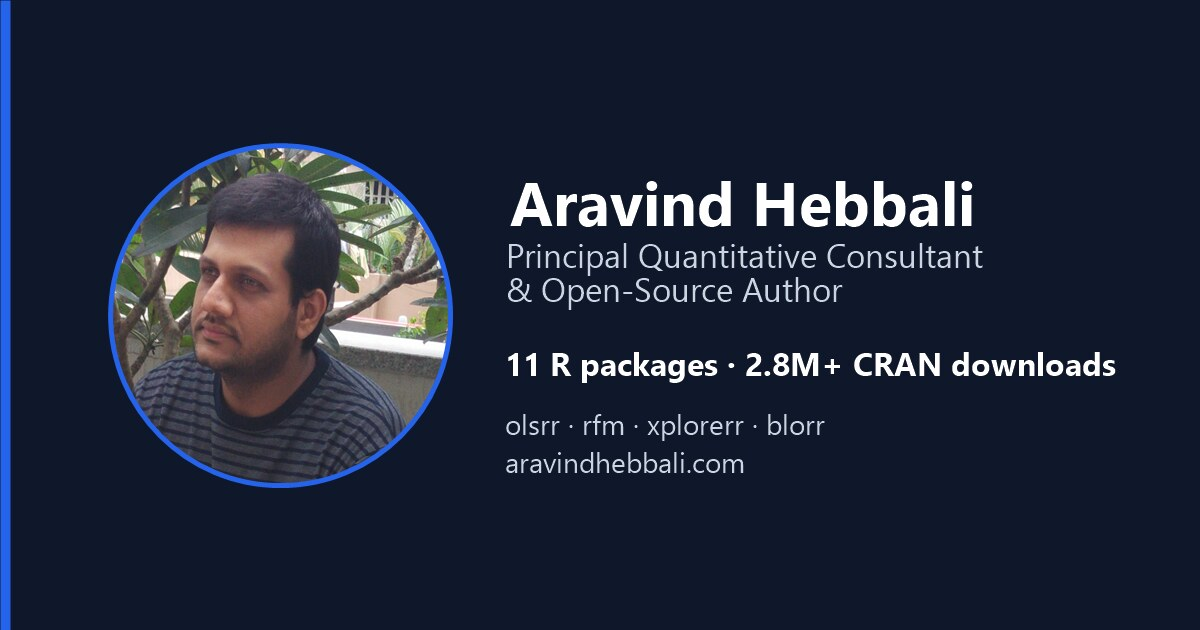
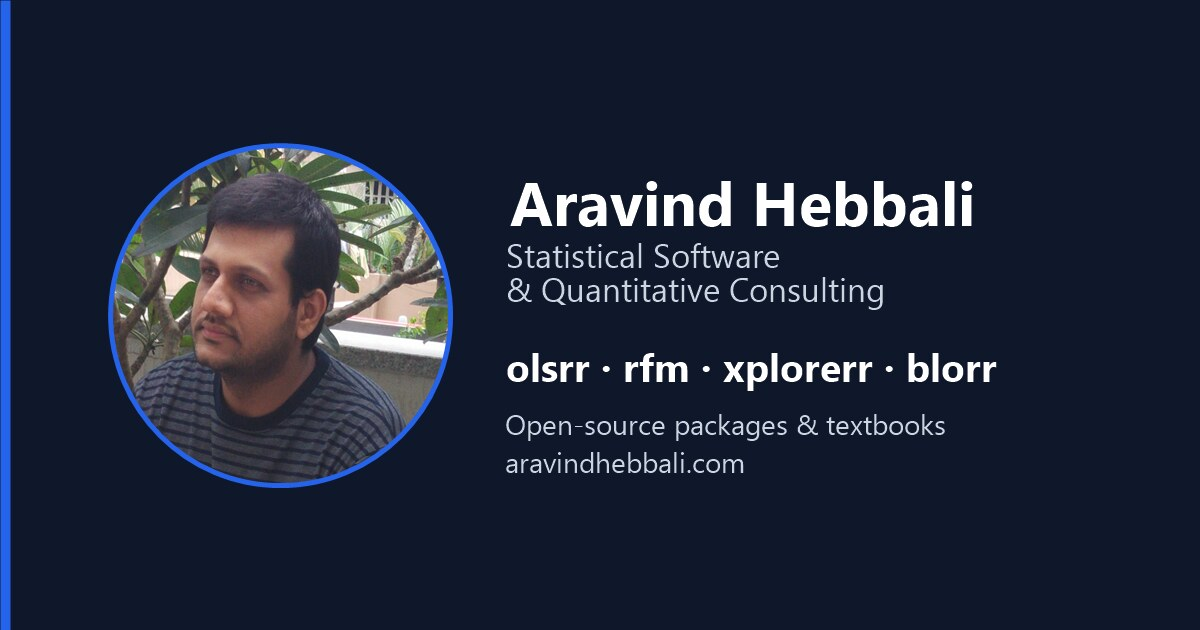
feat: restyle package, app and book pages

Changed region(s): [[0.4008, 0.3619, 0.8325, 0.4825], [0.4008, 0.5429, 0.925, 0.6333], [0.4008, 0.6635, 0.8017, 0.6937]]

diff --git a/_site/packages/index.html b/_site/packages/index.html
@@ -6,7 +6,7 @@
 
 <meta name="viewport" content="width=device-width, initial-scale=1.0, user-scalable=yes">
 
-<meta name="description" content="Documentation and vignettes for 10 actively maintained R packages covering regression diagnostics, customer segmentation, descriptive statistics, inference and data binning.">
+<meta name="description" content="Reference documentation and vignettes for ten actively maintained R packages covering regression diagnostics, customer segmentation, descriptive statistics and inference.">
 
 <title>R Packages – Aravind Hebbali</title>
 <style>
@@ -102,12 +102,12 @@ ul.task-list li input[type="checkbox"] {
 
 <link rel="stylesheet" href="../styles.scss">
 <meta property="og:title" content="R Packages – Aravind Hebbali">
-<meta property="og:description" content="Documentation and vignettes for 10 actively maintained R packages covering regression diagnostics, customer segmentation, descriptive statistics, inference and data binning.">
+<meta property="og:description" content="Reference documentation and vignettes for ten actively maintained R packages covering regression diagnostics, customer segmentation, descriptive statistics and inference.">
 <meta property="og:image" content="https://www.aravindhebbali.com/images/hex-olsrr.webp">
 <meta property="og:site_name" content="Aravind Hebbali">
 <meta property="og:image:alt" content="Hex sticker for the olsrr R package">
 <meta name="twitter:title" content="R Packages – Aravind Hebbali">
-<meta name="twitter:description" content="Documentation and vignettes for 10 actively maintained R packages covering regression diagnostics, customer segmentation, descriptive statistics, inference and data binning.">
+<meta name="twitter:description" content="Reference documentation and vignettes for ten actively maintained R packages covering regression diagnostics, customer segmentation, descriptive statistics and inference.">
 <meta name="twitter:image" content="https://www.aravindhebbali.com/images/hex-olsrr.webp">
 <meta name="twitter:image:alt" content="Hex sticker for the olsrr R package">
 <meta name="twitter:card" content="summary_large_image">
@@ -188,7 +188,7 @@ ul.task-list li input[type="checkbox"] {
 
 <div>
   <div class="description">
-    Documentation and vignettes for 10 actively maintained R packages covering regression diagnostics, customer segmentation, descriptive statistics, inference and data binning.
+    Reference documentation and vignettes for ten actively maintained R packages covering regression diagnostics, customer segmentation, descriptive statistics and inference.
   </div>
 </div>
 
@@ -205,20 +205,16 @@ ul.task-list li input[type="checkbox"] {
 </header>
 
 
-<p>All ten packages below are on CRAN and documented. Each link opens the package’s reference site; every one is maintained and versioned with CRAN.</p>
-<section id="regression-and-modeling" class="level2">
-<h2 class="anchored" data-anchor-id="regression-and-modeling">Regression and modeling</h2>
+<p>Ten packages, all on CRAN, all documented. Each card links to the package’s reference site, its CRAN page and its source.</p>
+<section id="regression-and-modelling" class="level2">
+<h2 class="anchored" data-anchor-id="regression-and-modelling">Regression and modelling</h2>
 <div class="card-deck">
 <div class="card">
 <p><img src="../images/hex-olsrr.webp" class="hex img-fluid" alt="Hex sticker for the olsrr R package"></p>
 <section id="olsrr" class="level3 card-title">
 <h3 class="card-title anchored" data-anchor-id="olsrr">olsrr</h3>
-<p>Tools for building OLS regression models. Coefficient diagnostics, ANOVA tables, influential observation analysis, model comparison and more.</p>
-<ul>
-<li><a href="https://cran.r-project.org/package=olsrr">CRAN</a></li>
-<li><a href="https://github.com/aravindhebbali/olsrr">GitHub</a></li>
-<li><a href="https://olsrr.rsquaredacademy.com">Docs</a></li>
-</ul>
+<p>Tools for building OLS regression models. Coefficient diagnostics, ANOVA tables, influential observation analysis and model comparison.</p>
+<p><a href="https://olsrr.rsquaredacademy.com">Reference</a> · <a href="https://cran.r-project.org/package=olsrr">CRAN</a> · <a href="https://github.com/aravindhebbali/olsrr">GitHub</a></p>
 </section>
 </div>
 </div>
@@ -227,12 +223,8 @@ ul.task-list li input[type="checkbox"] {
 <p><img src="../images/hex-blorr.webp" class="hex img-fluid" alt="Hex sticker for the blorr R package"></p>
 <section id="blorr" class="level3 card-title">
 <h3 class="card-title anchored" data-anchor-id="blorr">blorr</h3>
-<p>Tools for developing binary logistic regression models. Includes comprehensive regression output, model fit statistics and validation measures.</p>
-<ul>
-<li><a href="https://cran.r-project.org/package=blorr">CRAN</a></li>
-<li><a href="https://github.com/aravindhebbali/blorr">GitHub</a></li>
-<li><a href="https://blorr.rsquaredacademy.com">Docs</a></li>
-</ul>
+<p>Tools for developing binary logistic regression models, with comprehensive regression output, model fit statistics and validation measures.</p>
+<p><a href="https://blorr.rsquaredacademy.com">Reference</a> · <a href="https://cran.r-project.org/package=blorr">CRAN</a> · <a href="https://github.com/aravindhebbali/blorr">GitHub</a></p>
 </section>
 </div>
 </div>
@@ -241,12 +233,8 @@ ul.task-list li input[type="checkbox"] {
 <p><img src="../images/hex-xplorerr.webp" class="hex img-fluid" alt="Hex sticker for the xplorerr R package"></p>
 <section id="xplorerr" class="level3 card-title">
 <h3 class="card-title anchored" data-anchor-id="xplorerr">xplorerr</h3>
-<p>Interactive data exploration and visualization. Correlation heatmaps, scatterplots, normality and outlier checks, and regression modeling from a point-and-click interface.</p>
-<ul>
-<li><a href="https://cran.r-project.org/package=xplorerr">CRAN</a></li>
-<li><a href="https://github.com/aravindhebbali/xplorerr">GitHub</a></li>
-<li><a href="https://xplorerr.rsquaredacademy.com">Docs</a></li>
-</ul>
+<p>Interactive data exploration and visualization: correlation heatmaps, scatterplots, distribution checks and regression modelling from a point-and-click interface.</p>
+<p><a href="https://xplorerr.rsquaredacademy.com">Reference</a> · <a href="https://cran.r-project.org/package=xplorerr">CRAN</a> · <a href="https://github.com/aravindhebbali/xplorerr">GitHub</a></p>
 </section>
 </div>
 </div>
@@ -258,12 +246,8 @@ ul.task-list li input[type="checkbox"] {
 <p><img src="../images/hex-descriptr.webp" class="hex img-fluid" alt="Hex sticker for the descriptr R package"></p>
 <section id="descriptr" class="level3 card-title">
 <h3 class="card-title anchored" data-anchor-id="descriptr">descriptr</h3>
-<p>Generate and visualize descriptive statistics for numeric and categorical data. Frequency tables, skewness, kurtosis, key statistics and interactive plots, all at speed.</p>
-<ul>
-<li><a href="https://cran.r-project.org/package=descriptr">CRAN</a></li>
-<li><a href="https://github.com/aravindhebbali/descriptr">GitHub</a></li>
-<li><a href="https://descriptr.rsquaredacademy.com">Docs</a></li>
-</ul>
+<p>Descriptive statistics and frequency tables for numeric and categorical data. Skewness, kurtosis and key statistics, computed fast.</p>
+<p><a href="https://descriptr.rsquaredacademy.com">Reference</a> · <a href="https://cran.r-project.org/package=descriptr">CRAN</a> · <a href="https://github.com/aravindhebbali/descriptr">GitHub</a></p>
 </section>
 </div>
 </div>
@@ -272,12 +256,8 @@ ul.task-list li input[type="checkbox"] {
 <p><img src="../images/hex-inferr.webp" class="hex img-fluid" alt="Hex sticker for the inferr R package"></p>
 <section id="inferr" class="level3 card-title">
 <h3 class="card-title anchored" data-anchor-id="inferr">inferr</h3>
-<p>Hypothesis testing and inference. Parametric and non-parametric tests with structured, readable output — t-test, chi-square, ANOVA, correlation and more.</p>
-<ul>
-<li><a href="https://cran.r-project.org/package=inferr">CRAN</a></li>
-<li><a href="https://github.com/aravindhebbali/inferr">GitHub</a></li>
-<li><a href="https://inferr.rsquaredacademy.com">Docs</a></li>
-</ul>
+<p>Hypothesis testing and inference. Parametric and non-parametric tests with structured, readable output: t-test, chi-square, ANOVA and correlation.</p>
+<p><a href="https://inferr.rsquaredacademy.com">Reference</a> · <a href="https://cran.r-project.org/package=inferr">CRAN</a> · <a href="https://github.com/aravindhebbali/inferr">GitHub</a></p>
 </section>
 </div>
 </div>
@@ -286,12 +266,8 @@ ul.task-list li input[type="checkbox"] {
 <p><img src="../images/hex-vistributions.webp" class="hex img-fluid" alt="Hex sticker for the vistributions R package"></p>
 <section id="vistributions" class="level3 card-title">
 <h3 class="card-title anchored" data-anchor-id="vistributions">vistributions</h3>
-<p>Visualize probability distributions of univariate data across 20+ continuous and discrete distributions, plus statistical quality checks.</p>
-<ul>
-<li><a href="https://cran.r-project.org/package=vistributions">CRAN</a></li>
-<li><a href="https://github.com/rsquaredacademy/vistributions">GitHub</a></li>
-<li><a href="https://vistributions.rsquaredacademy.com">Docs</a></li>
-</ul>
+<p>Visualize probability distributions of univariate data across continuous and discrete families, with statistical quality checks.</p>
+<p><a href="https://vistributions.rsquaredacademy.com">Reference</a> · <a href="https://cran.r-project.org/package=vistributions">CRAN</a> · <a href="https://github.com/rsquaredacademy/vistributions">GitHub</a></p>
 </section>
 </div>
 </div>
@@ -303,11 +279,8 @@ ul.task-list li input[type="checkbox"] {
 <p><img src="../images/hex-rbin.webp" class="hex img-fluid" alt="Hex sticker for the rbin R package"></p>
 <section id="rbin" class="level3 card-title">
 <h3 class="card-title anchored" data-anchor-id="rbin">rbin</h3>
-<p>Bin and group numeric data into intervals. Equidistant, quantile, quantile binning and custom breaks, with an easy-to-use interactive mode.</p>
-<ul>
-<li><a href="https://cran.r-project.org/package=rbin">CRAN</a></li>
-<li><a href="https://github.com/rsquaredacademy/rbin">GitHub</a></li>
-</ul>
+<p>Bin and group numeric data into intervals: equidistant, quantile and custom breaks, with an interactive mode for picking them.</p>
+<p><a href="https://cran.r-project.org/package=rbin">CRAN</a> · <a href="https://github.com/rsquaredacademy/rbin">GitHub</a></p>
 </section>
 </div>
 </div>
@@ -349,7 +322,7 @@ nse2r — archived, under revival
 </div>
 <div class="callout-body-container callout-body">
 <p><code>nse2r</code> fetched live data from the National Stock Exchange of India. It was <strong>archived on CRAN on 2023-08-07</strong> at the maintainer’s request and is currently being revived, so it is no longer installable from CRAN.</p>
-<p>Its ~22,000 historical downloads remain part of the totals quoted elsewhere on this site, but that figure is frozen and will not grow. Source and issue tracker: <a href="https://github.com/rsquaredacademy/nse2r">github.com/rsquaredacademy/nse2r</a>.</p>
+<p>Source and issue tracker: <a href="https://github.com/rsquaredacademy/nse2r">github.com/rsquaredacademy/nse2r</a>.</p>
 </div>
 </div>
 

diff --git a/_site/books/index.html b/_site/books/index.html
@@ -205,7 +205,7 @@ ul.task-list li input[type="checkbox"] {
 </header>
 
 
-<p>Six open textbooks, free to read online. Written with <a href="https://bookdown.org/">blogdown</a> and hosted on <a href="https://www.rsquaredacademy.com/">Rsquared Academy</a>; each was grown out of posts on my blog and is kept free and ad-free.</p>
+<p>Six open textbooks, free to read online. Written with <a href="https://bookdown.org/">bookdown</a> and hosted on <a href="https://www.rsquaredacademy.com/">Rsquared Academy</a>.</p>
 <div class="books">
 <div class="book">
 <p><img src="../images/book-intro-r.webp" class="img-fluid" alt="Cover: Introduction to R"> <a href="https://intro-r.rsquaredacademy.com/" class="book-title">Introduction to R</a></p>
@@ -228,8 +228,9 @@ ul.task-list li input[type="checkbox"] {
 </div>
 <section id="about-these-books" class="level2">
 <h2 class="anchored" data-anchor-id="about-these-books">About these books</h2>
-<p>They began as blog posts, expanded into tutorials on <a href="https://www.rsquaredacademy.com/">Rsquared Academy</a>, then collected and rewritten into these short books. The writing style is intentionally plain — short chapters, worked examples, and the parts of the documentation people usually skip.</p>
-<p>None of them is a substitute for the official <a href="https://www.r-project.org/">R documentation</a>. If you want one resource to start with, <strong>Introduction to R</strong> is the one.</p>
+<p>They began as blog posts, expanded into tutorials on <a href="https://www.rsquaredacademy.com/">Rsquared Academy</a>, then collected and rewritten into these short books. The writing style is deliberately plain — short chapters, worked examples, and the parts of the documentation people usually skip.</p>
+<p>None of them replaces the official <a href="https://www.r-project.org/">R documentation</a>. If you want one place to start, <strong>Introduction to R</strong> is the one.</p>
+<p>If these were useful, the courses behind them are at <a href="https://www.rsquaredacademy.com/">rsquaredacademy.com</a>.</p>
 
 
 </section>

diff --git a/_site/404.html b/_site/404.html
@@ -197,15 +197,14 @@ ul.task-list li input[type="checkbox"] {
 
 
 <p>That page doesn’t exist — it may have been moved or renamed.</p>
-<p>The pages on this site are:</p>
+<p>There are four pages here:</p>
 <ul>
 <li><a href="/.">Home</a> — packages, books and consulting</li>
-<li><a href="/.\packages/">Packages</a> — documentation for 10 CRAN packages</li>
+<li><a href="/.\packages/">Packages</a> — reference docs for the R packages</li>
 <li><a href="/.\apps/">Apps</a> — Shiny apps that run locally in R</li>
-<li><a href="/.\books/">Books</a> — six free online textbooks</li>
+<li><a href="/.\books/">Books</a> — the open textbooks</li>
 </ul>
-<p>If you arrived from an old link that used <code>.html</code> (for example <code>r-packages.html</code>), it still redirects to the current address.</p>
-<p>You can also search the site from the box above, or email <a href="mailto:hebbali.aravind@gmail.com">hebbali.aravind@gmail.com</a>.</p>
+<p>Old links ending in <code>.html</code> still work and redirect to the current addresses, so a stale bookmark should have landed you on the right page. If it did not, the <a href="https://blog.rsquaredacademy.com/">mailing list</a> or <a href="https://github.com/aravindhebbali">GitHub</a> is the fastest way to tell me it broke.</p>
 
 
 
